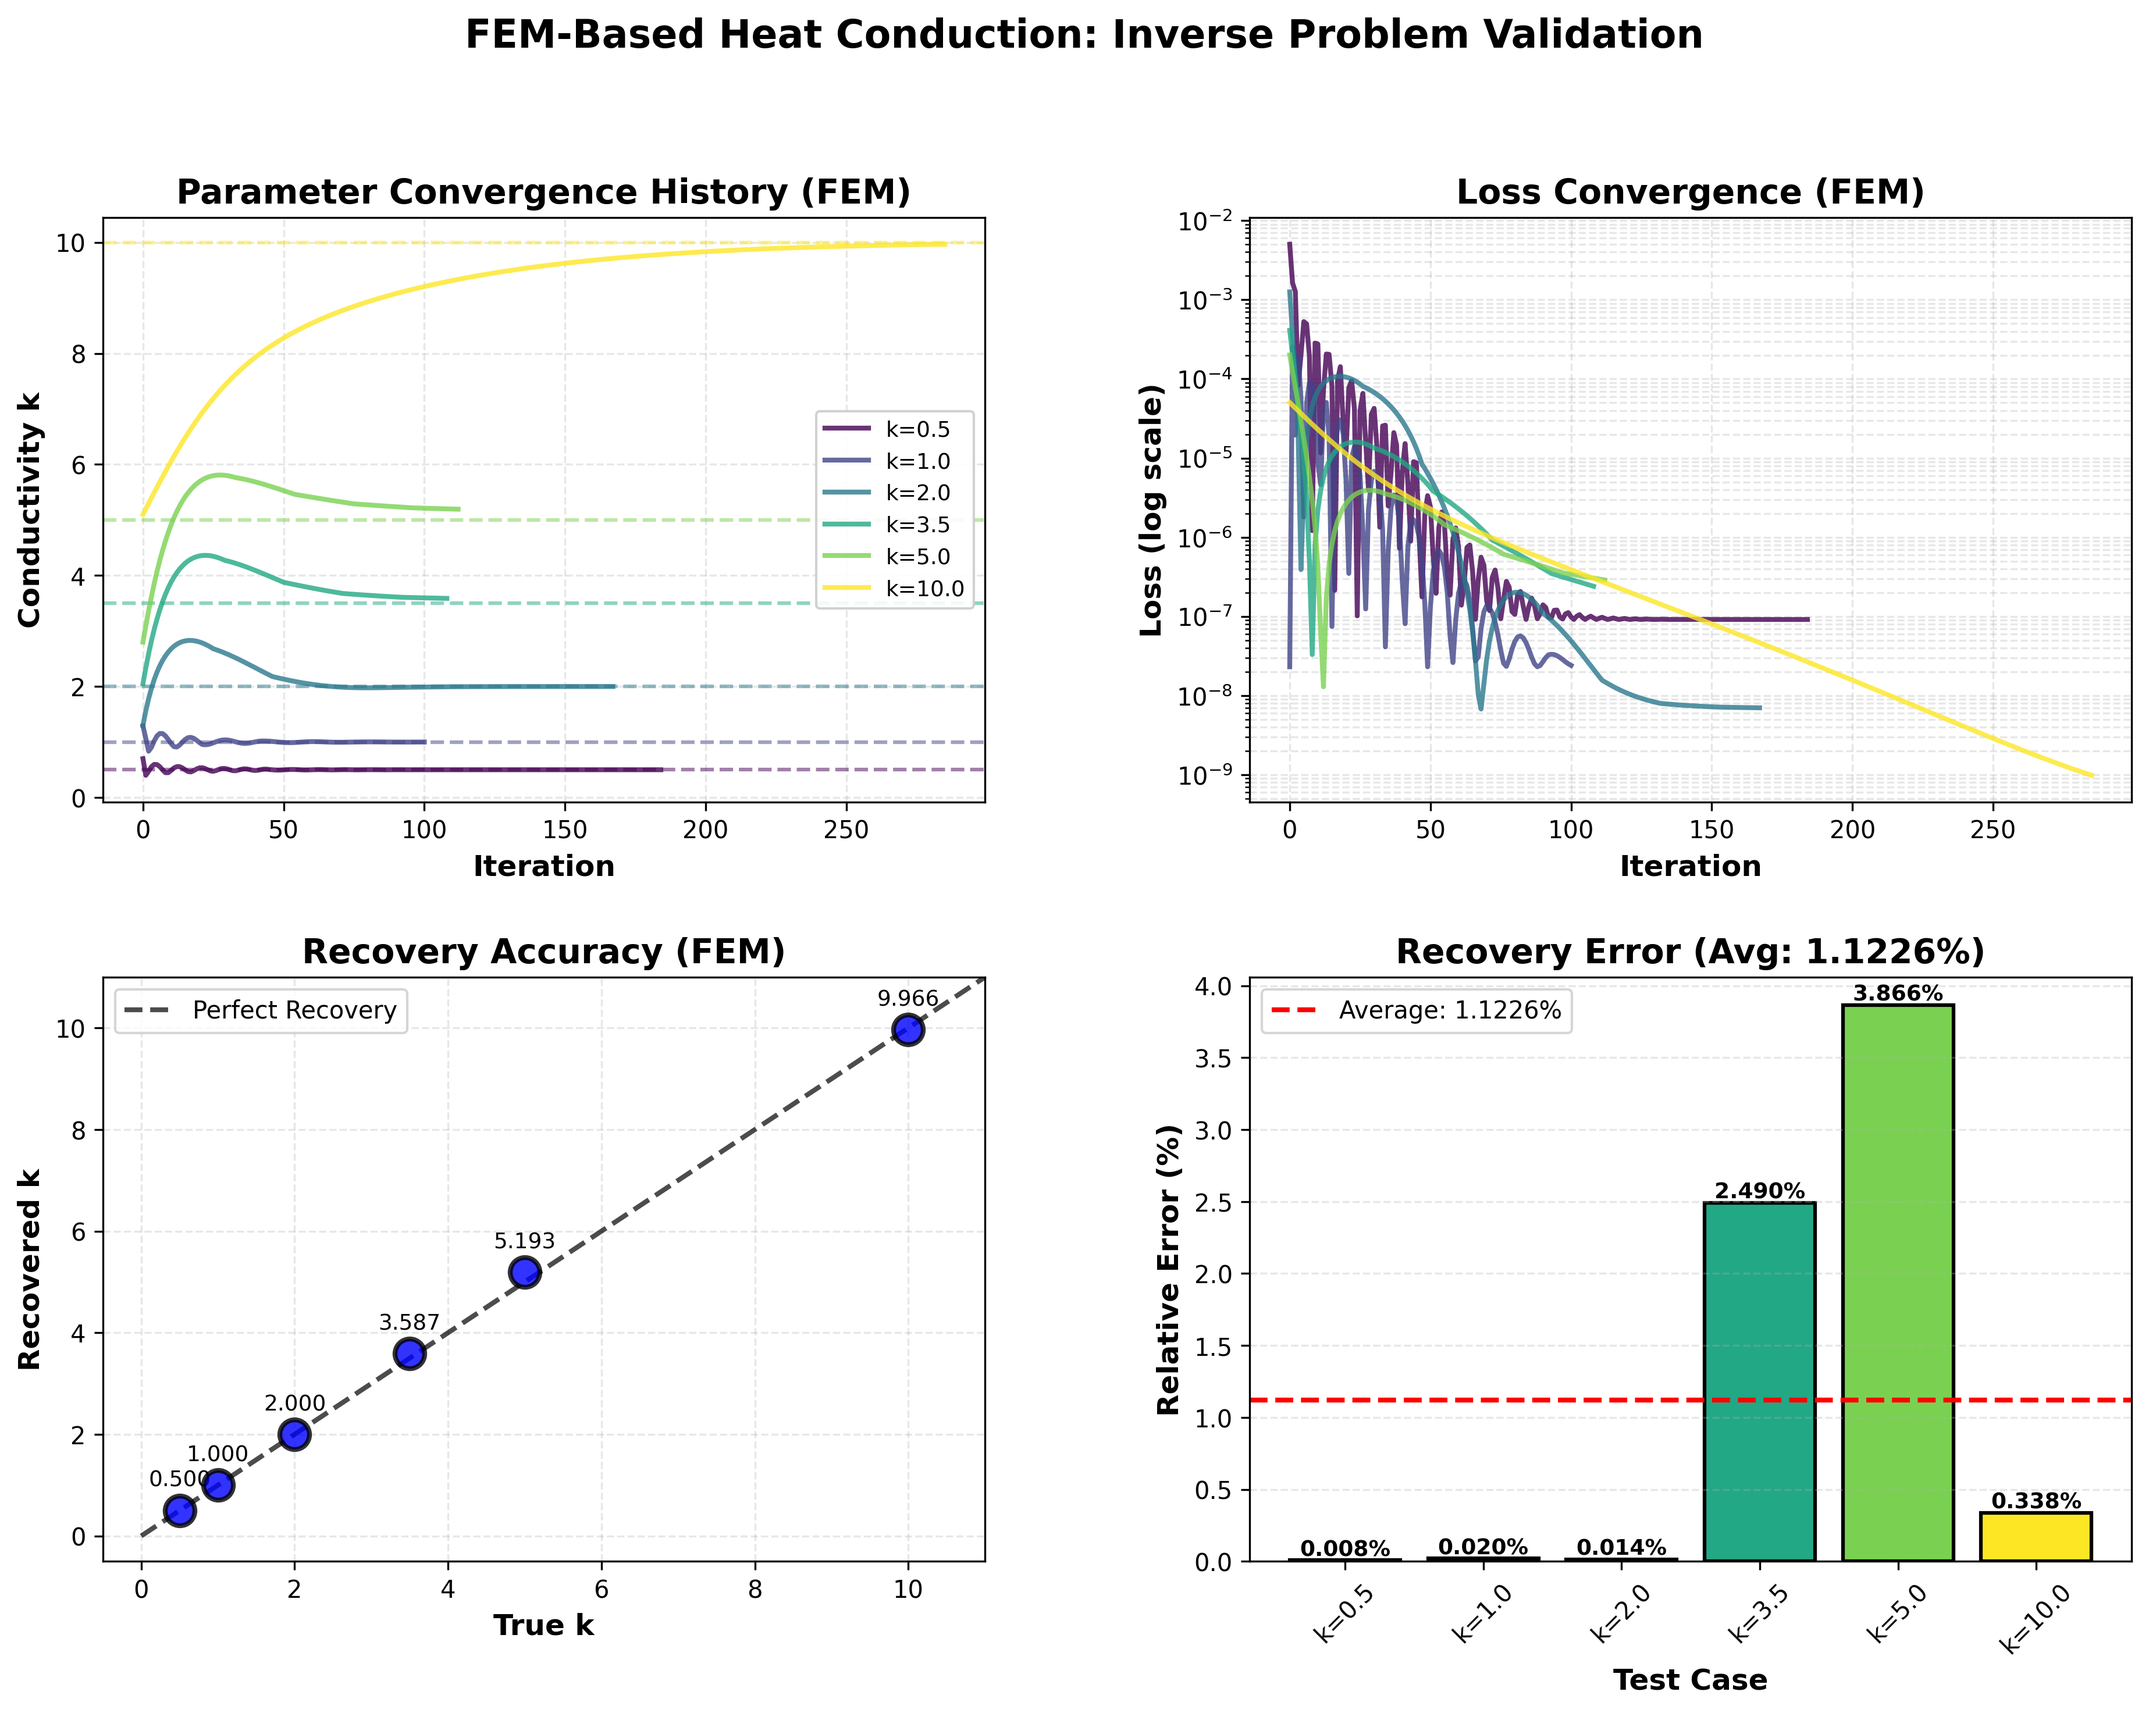
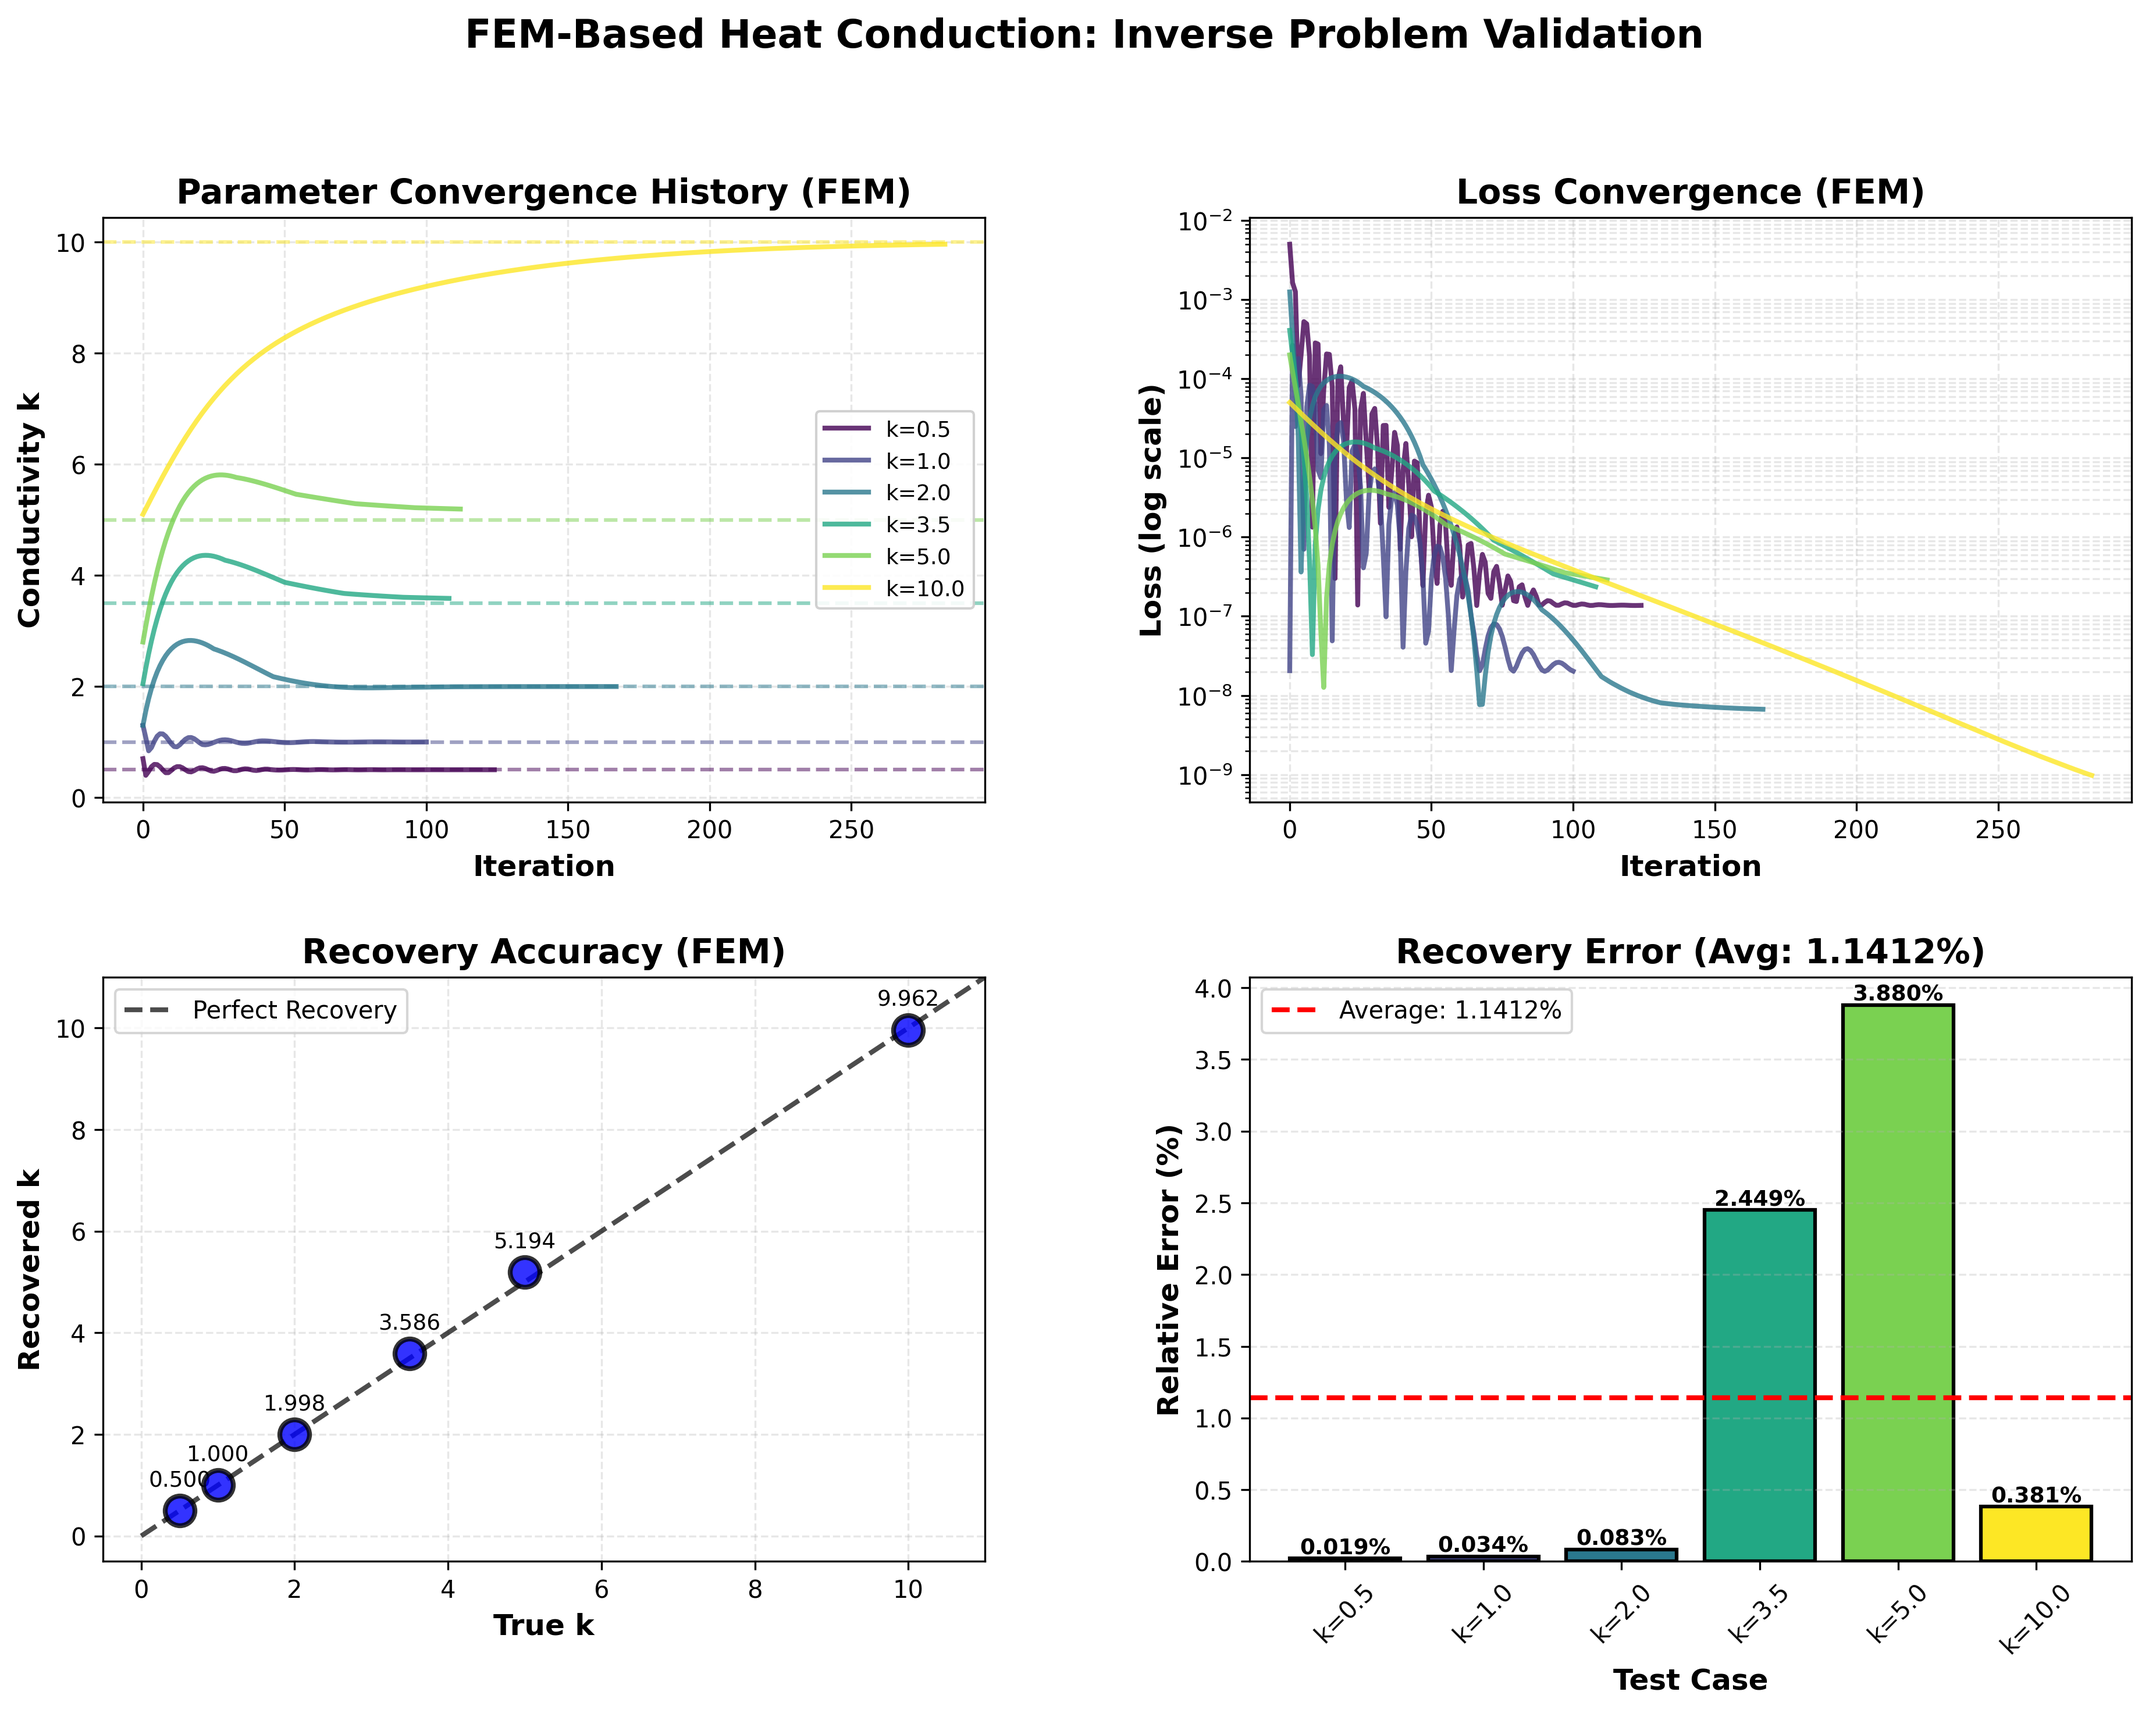
Add __init__.py and validation images

diff --git a/gsoc-2026-demo/implementations/__init__.py b/gsoc-2026-demo/implementations/__init__.py
@@ -1,0 +1,3 @@
+from .simple_fem_1d import SimpleFEM1D, analytical_solution
+from .heat_conduction import HeatConductionFEM1D
+from .mesh_2d import SimpleMesh2D
